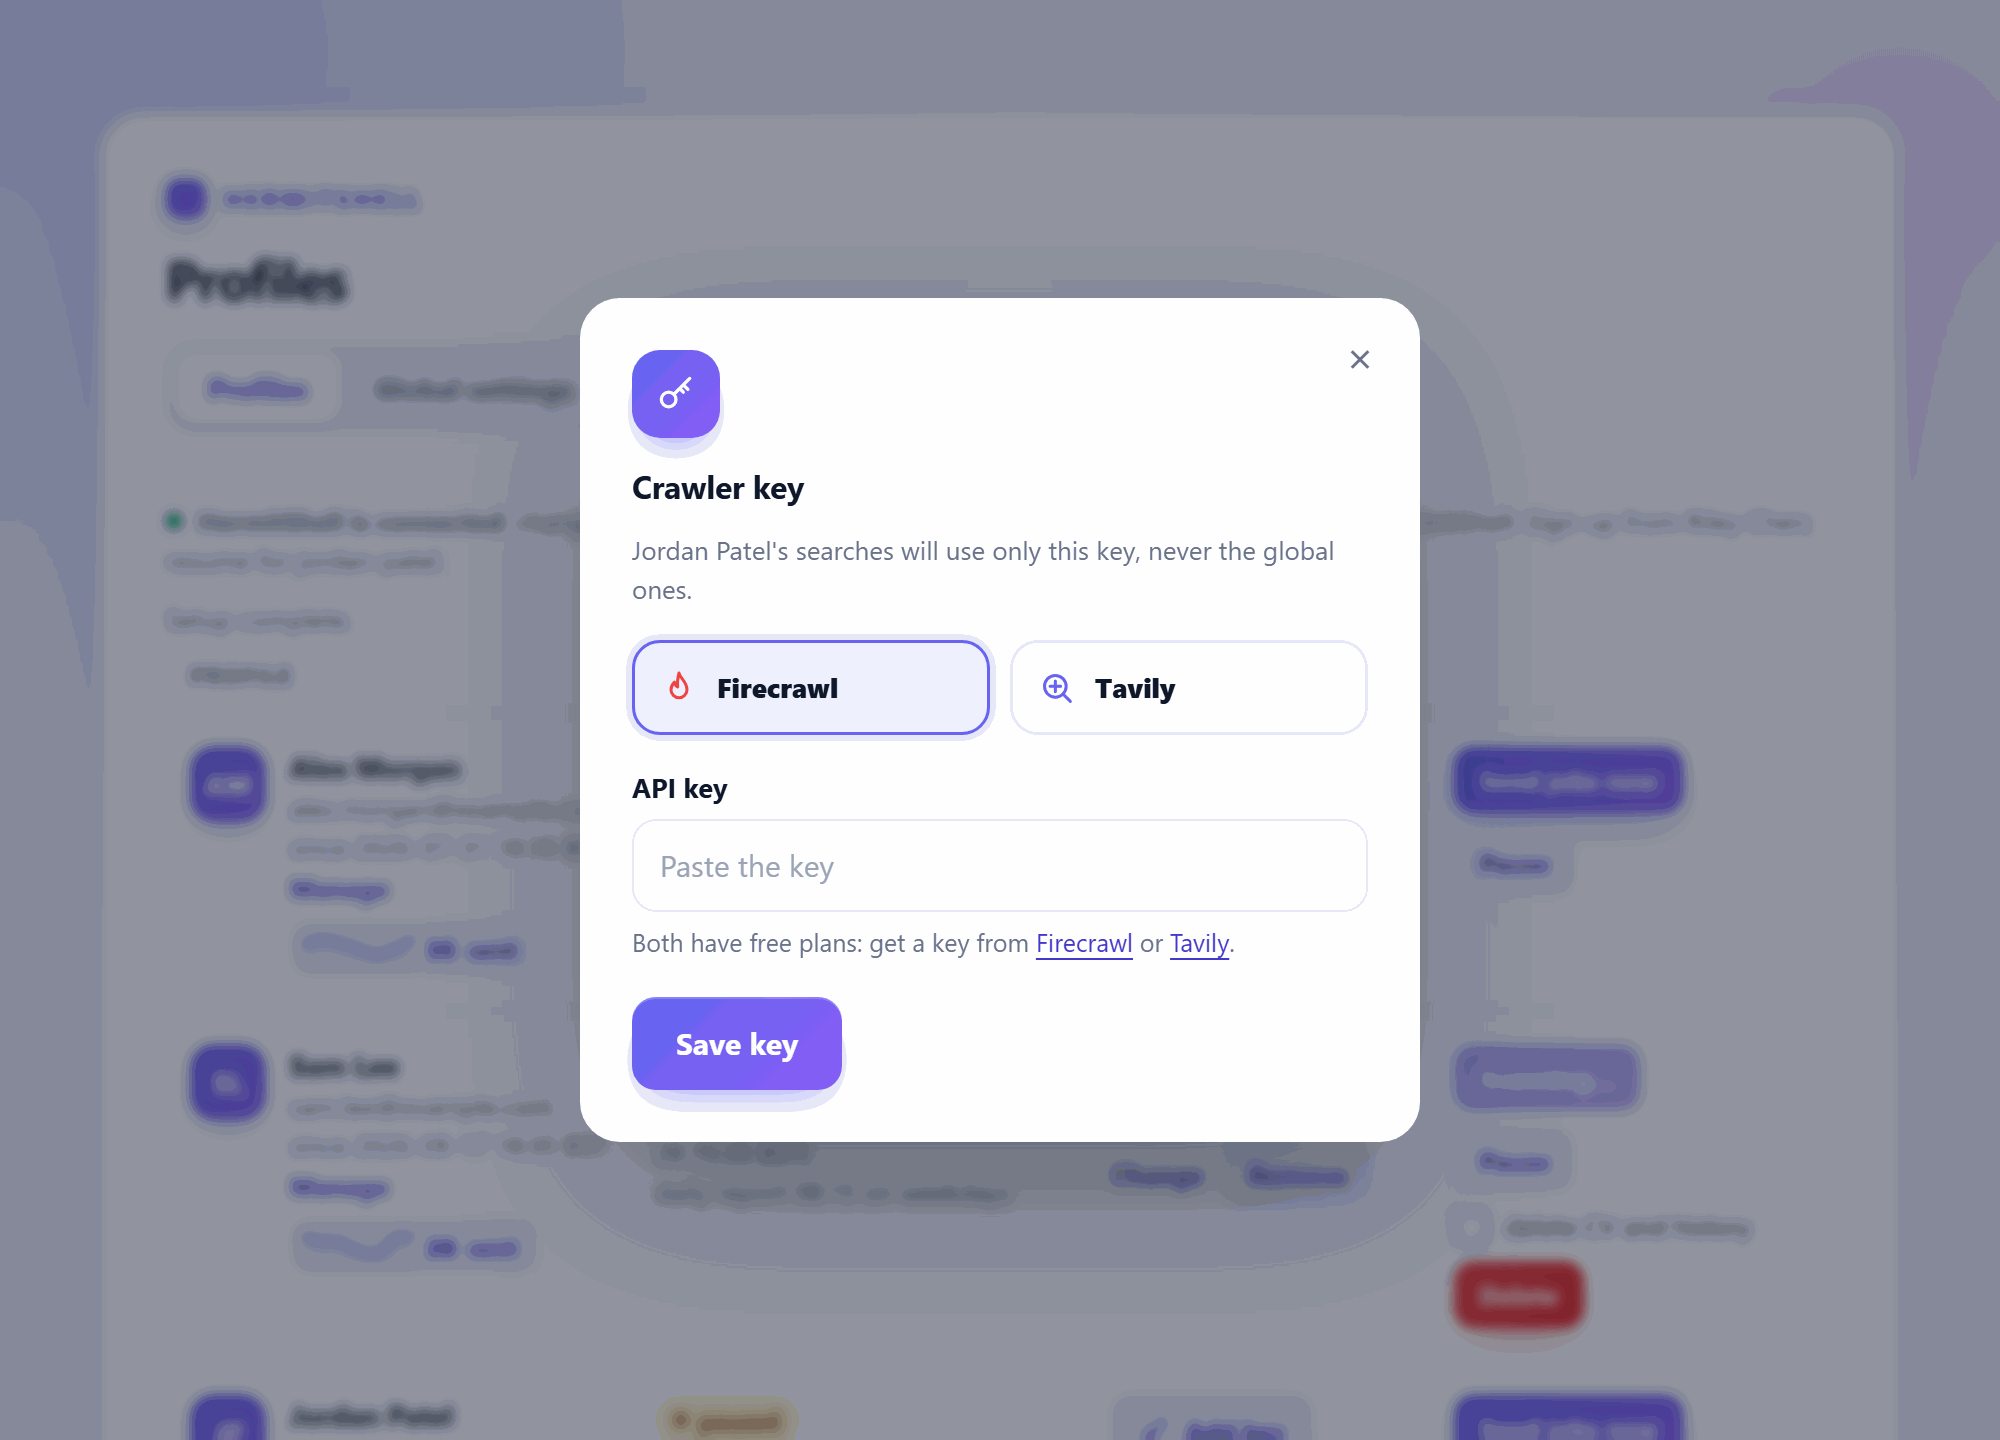
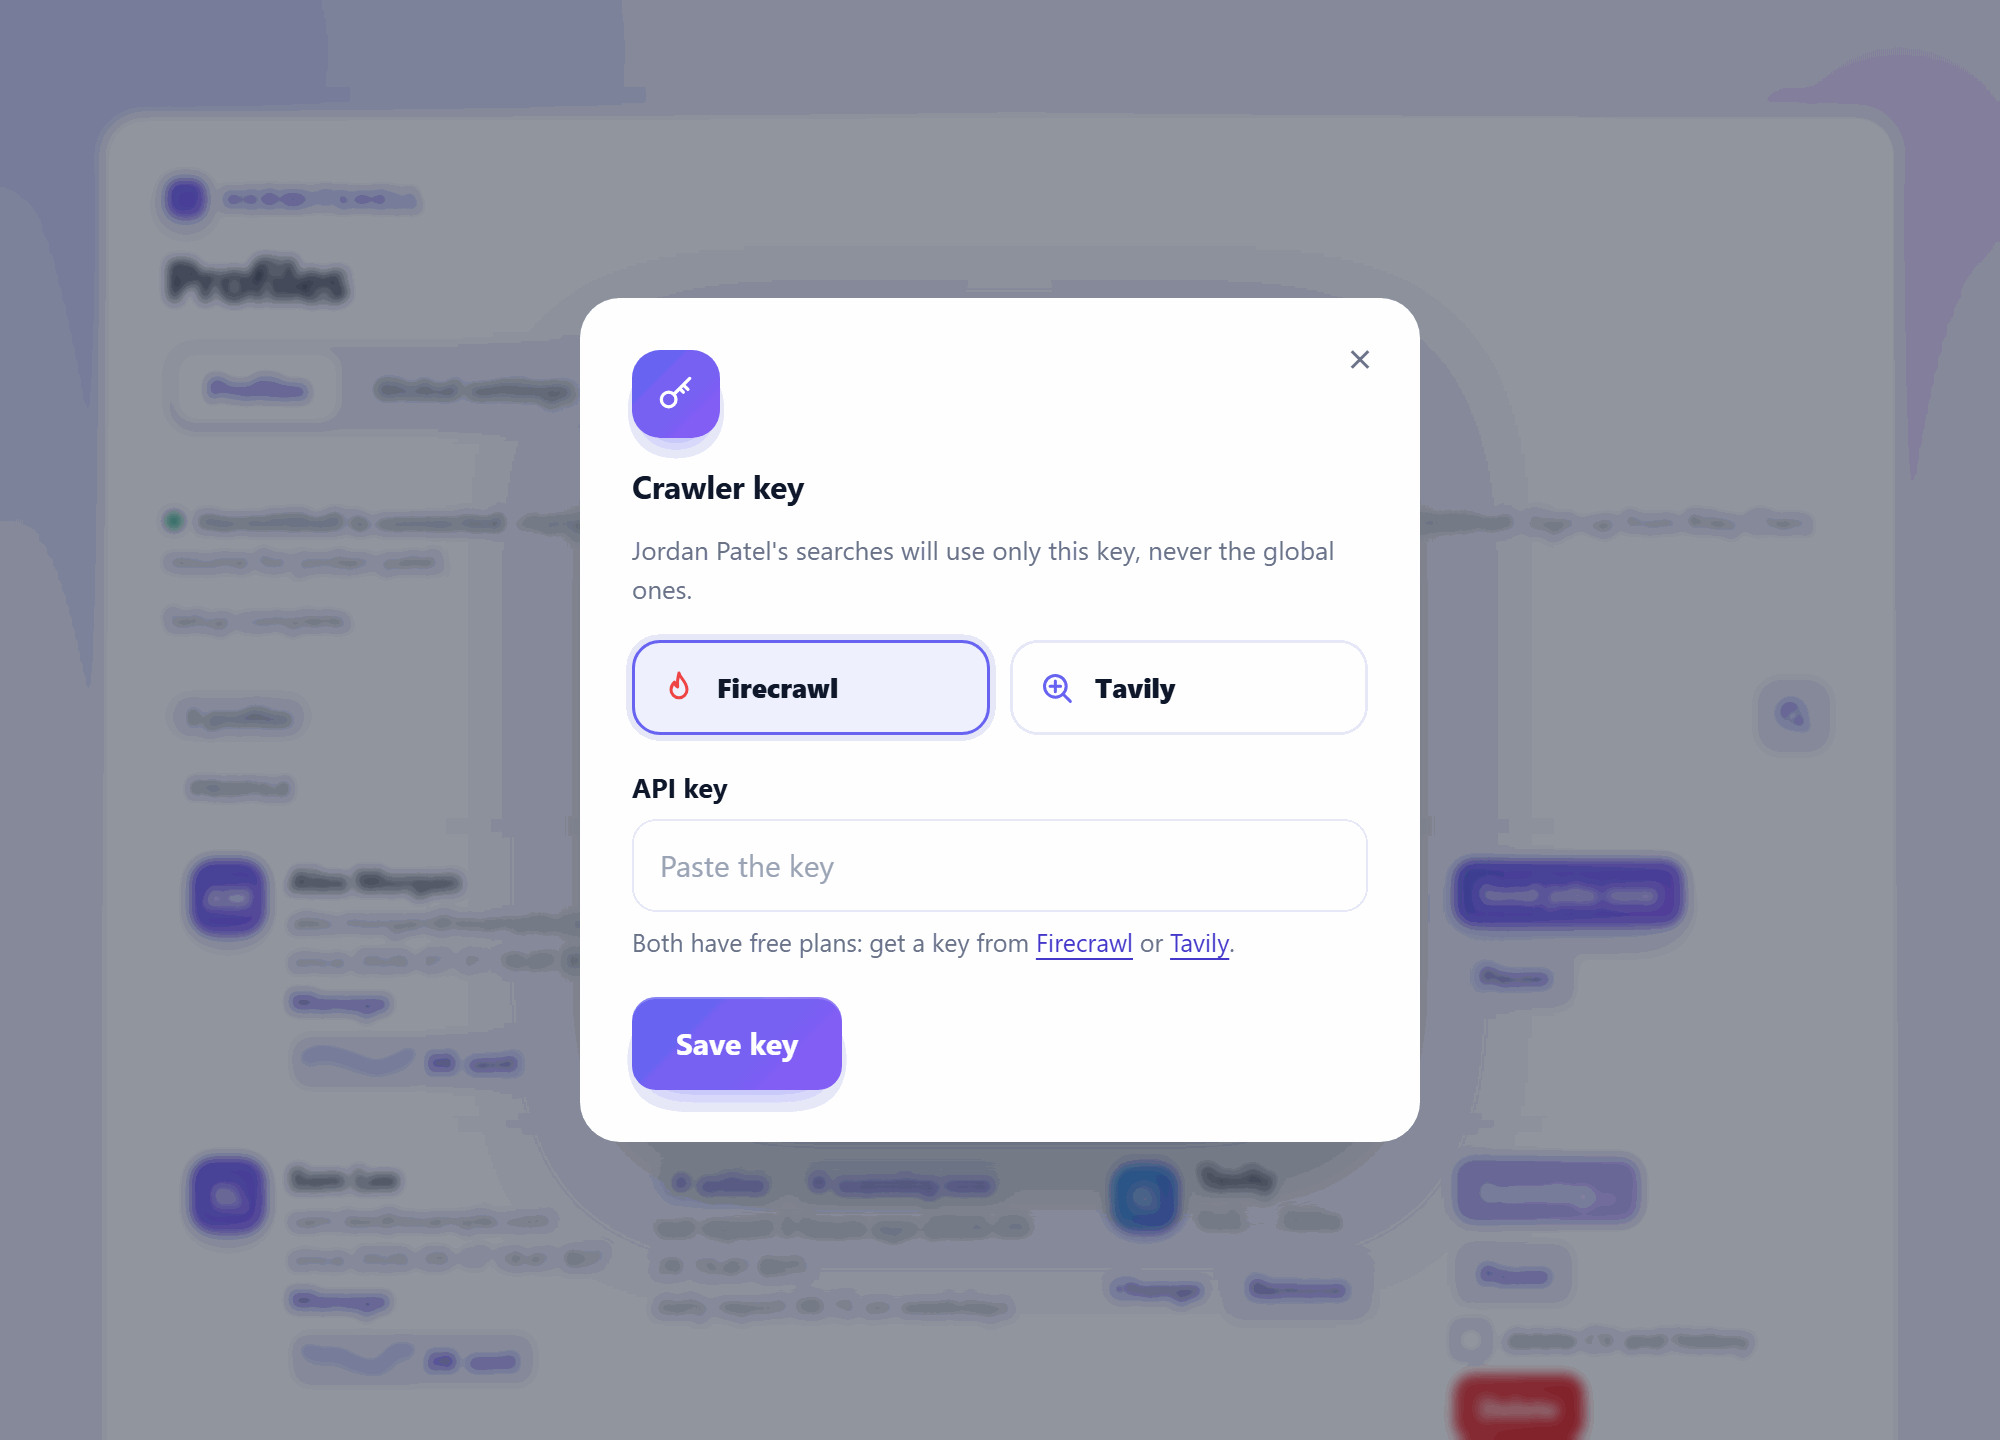
Docs, changelog and screenshots for the profile search

diff --git a/docs/screenshots.md b/docs/screenshots.md
@@ -292,6 +292,7 @@ deleted ([data protection](configuration.md#data-protection)).
 | Control | What it does |
 | --- | --- |
 | Status line | **HermitShell is connected** (green dot) while its live link is up, so changes reach it within seconds, then when it last reported its profiles. Without the link: when HermitShell last checked in, with the time in your timezone (`HERMES_TIMEZONE`). Also lists changes still **Waiting for HermitShell**. A warning appears above it if HermitShell hasn't checked in for 45 minutes |
+| Search (magnifying glass) | Slides out a search box. Type part of a name, email, place, status (**paused**, **scanning**, **no cv**) or crawler and press Enter: only the profiles with every word are listed, with **1 of 3 profiles** above the table. **&times;** shows everyone again |
 | Profile, Status | Name, email and start date, **no CV** when there is none yet; owner, active or paused; **scanning now** while a report runs; time of the last report and the daily report time |
 | **Send jobs now** | Runs that profile's report straight away and emails it when the scan finishes, even if nothing new turned up. Shows **Scanning…** while a report runs; missing without a CV |
 | **Manage** | Opens [that profile's page](#a-profiles-page): details, job search, report time and CV |
@@ -306,7 +307,13 @@ deleted ([data protection](configuration.md#data-protection)).
 | **Revoke** | Cancels an unused invite |
 | **Sign out** | Ends every admin session |
 
-<img src="images/worker/admin-key-modal.png" alt="The Add key window: Firecrawl or Tavily, and the API key" width="620">
+<table>
+<tr><th>Add key</th><th>Searching for a profile</th></tr>
+<tr>
+<td><img src="images/worker/admin-key-modal.png" alt="The Add key window: Firecrawl or Tavily, and the API key" width="380"></td>
+<td><img src="images/worker/admin-dashboard-search.png" alt="The profiles table searched for York" width="380"></td>
+</tr>
+</table>
 
 <table>
 <tr><th>Right after setup: the checklist</th><th>Before HermitShell has reported</th><th>New invite link</th></tr>

diff --git a/docs/feedback-worker.md b/docs/feedback-worker.md
@@ -365,6 +365,9 @@ whole tool shares).
   and CV) and **Stats** its [stats page](#stats). Pause, resume or delete
   (deleting removes their CV and history from your server, their answers still waiting in KV and
   their name and email from the logs; the owner can't be deleted).
+- **Search**: the magnifying glass above the table slides out a search box (CSS only). Press Enter
+  and the page lists only the profiles whose name, email, id, place, status or crawler contain every
+  word you typed (`/admin?q=`), with a count and **&times;** to show everyone again.
 - **Crawler**: a profile with its own key shows the provider and the start and end of the key; the
   owner's row shows the global key. Without a key, **Add key** opens a window (CSS only, no
   JavaScript) to pick Firecrawl or Tavily and paste the key. A profile with its own key searches with

diff --git a/CHANGELOG.md b/CHANGELOG.md
@@ -8,6 +8,10 @@ using [Semantic Versioning](https://semver.org/).
 
 ### Added
 
+- **Profile search on the dashboard.** An animated magnifying glass above the profiles table slides out a
+  search box, with CSS only and no JavaScript. Enter lists the profiles whose name, email, id, place,
+  status or crawler contain every word (`/admin?q=`, up to 60 characters). It shows how many profiles
+  match, a message with a way back when none do, and **&times;** to clear the search.
 - **A tidier Crawler column, with an Add key window.**
   - A profile's row shows its crawler key only when it has one: the provider (Firecrawl or Tavily) and
     the start and end of the key. The owner's row shows the global key, tagged **global**.
